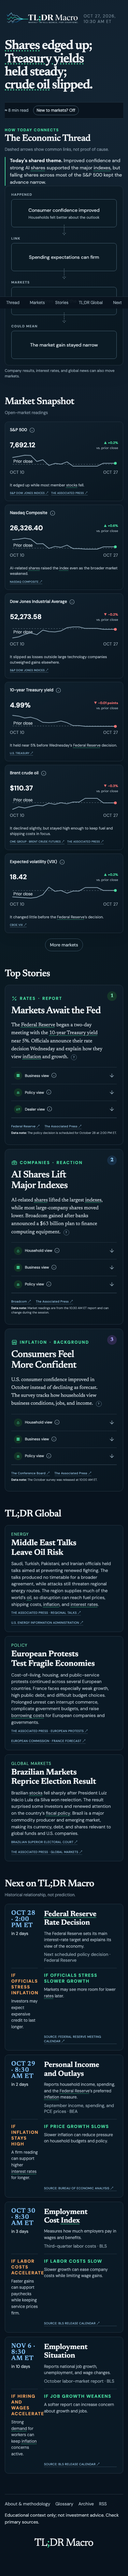
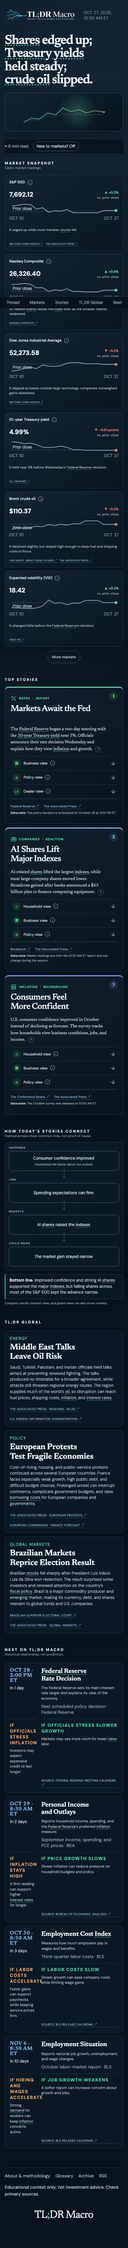
Refine homepage into dense visual briefing

diff --git a/app/globals.css b/app/globals.css
@@ -507,3 +507,96 @@ body {
   .notable-list,.event-list { grid-template-columns:1fr; }
   .event-list article { grid-template-columns:78px minmax(0,1fr); }
 }
+
+/* Approved Oct. 27 dense visual briefing hierarchy. */
+.shell { width:min(1240px,calc(100% - 48px)); }
+.topbar { padding:12px 0 18px; }
+.topbar-main { min-height:38px; }
+.brand-image-header { width:clamp(210px,20vw,280px); }
+.edition { letter-spacing:.04em; }
+.daily-brief { width:100%; max-width:none; display:grid; grid-template-columns:minmax(0,1.35fr) minmax(300px,.65fr); gap:38px; align-items:center; padding:26px 0 4px; }
+.daily-brief-copy { min-width:0; }
+.daily-brief .edition-summary { max-width:760px; font-size:clamp(35px,4.2vw,54px); line-height:1.02; }
+.daily-brief .summary-why { max-width:740px; margin-top:14px; font-size:clamp(14px,1.25vw,17px); line-height:1.52; }
+.brief-visual { min-width:0; height:210px; overflow:hidden; border:1px solid rgb(99 127 145 / .45); border-radius:12px; background:linear-gradient(145deg,rgb(17 37 51 / .94),rgb(7 19 28 / .96)); box-shadow:0 20px 56px rgb(0 0 0 / .22),inset 0 1px rgb(255 255 255 / .025); }
+.brief-visual svg { width:100%; height:100%; }
+.brief-grid-line { fill:none; stroke:#8ab0c2; stroke-width:1; opacity:.09; }
+.brief-signal-line { fill:none; stroke:url(#brief-signal); stroke-width:3; stroke-linecap:round; stroke-linejoin:round; }
+.brief-signal-line-muted { stroke:#7dbbea; stroke-width:1.6; opacity:.25; }
+.brief-signal-line-soft { stroke:#70e5b2; stroke-width:1.7; opacity:.4; }
+.reader-tools { padding:7px 0; }
+.economic-thread,.market-section,.stories,.notable,.watch { padding:25px 0; }
+.section-heading { align-items:end; margin-bottom:13px; }
+.section-heading h2,.economic-thread .section-heading h2 { color:#dce5ea; font-family:var(--font-sans),sans-serif; font-size:11px; font-weight:760; line-height:1.2; text-transform:uppercase; letter-spacing:.24em; }
+.section-heading>p { max-width:440px; margin:0; color:#8296a4; font-size:10px; line-height:1.35; text-align:right; }
+
+.market-grid { gap:9px; }
+.market { min-height:222px; padding:13px 12px; border-radius:9px; background:linear-gradient(150deg,rgb(18 37 50 / .98),rgb(9 23 33 / .96)); box-shadow:0 12px 28px rgb(0 0 0 / .13); }
+.market-title { min-height:27px; }
+.market-title h3 { font-size:11px; }
+.market-value strong { font-size:19px; }
+.sparkline { height:41px; margin:5px 0 0; }
+.market>p,.market-description { margin-top:6px; font-size:10px; line-height:1.42; }
+.market-sources { padding-top:7px; }
+.market-sources a { font-size:7px; }
+.more-markets { min-height:36px; margin-top:12px; font-size:11px; }
+
+.headline-list { gap:10px; }
+.headline-card,.headline-card.no-visual { padding:17px; border-radius:10px; overflow:hidden; box-shadow:0 15px 38px rgb(0 0 0 / .13),inset 0 3px #5fd3a0; }
+.headline-card:nth-child(2) { box-shadow:0 15px 38px rgb(0 0 0 / .13),inset 0 3px #7dbbea; }
+.headline-card:nth-child(3) { box-shadow:0 15px 38px rgb(0 0 0 / .13),inset 0 3px #9991f3; }
+.headline-card:before { top:15px; right:15px; width:25px; height:25px; font-size:13px; }
+.story-tag { margin-bottom:0; font-size:9px; letter-spacing:.1em; }
+.headline-intro { padding-right:32px; }
+.headline-intro h3 { min-height:48px; margin-top:9px; font-size:clamp(20px,1.8vw,25px); line-height:1.08; }
+.headline-commentary-text { margin-top:10px; font-size:13px; line-height:1.48; }
+.headline-visual-column { margin-top:13px; }
+.headline-visual { min-height:176px; padding:13px; border-radius:8px; }
+.headline-visual p { font-size:11px; line-height:1.4; }
+.lenses { margin-top:12px; }
+.lens-row,.lens-toggle { min-height:40px; }
+.lens-row { padding:3px 6px; }
+.story-sources { padding-top:9px; }
+
+.economic-thread { padding-top:18px; }
+.economic-thread .section-heading { margin-bottom:11px; }
+.linear-thread { gap:2px; padding:14px; border-radius:10px; }
+.thread-node { min-height:70px; padding:10px; border-radius:8px; font-size:12px; }
+.thread-step small { margin-bottom:5px; font-size:8px; }
+.thread-node-subline { font-size:9px; }
+.thread-arrow { width:30px; }
+.thread-takeaway { max-width:none; margin:10px 0 0; padding:9px 12px; border:1px solid rgb(91 125 142 / .36); border-left:2px solid var(--green); border-radius:0 7px 7px 0; background:rgb(10 28 38 / .7); font-size:12px; line-height:1.45; }
+.thread-other-factors { margin-top:6px; font-size:9px; }
+
+.notable-list { gap:10px; }
+.notable-list article,.notable-list article:nth-child(even),.notable-list article:nth-child(odd) { padding:14px; border-radius:9px; box-shadow:0 10px 26px rgb(0 0 0 / .09); }
+.notable h3 { font-size:18px; }
+.notable p { font-size:12px; line-height:1.48; }
+.global-sources { margin-top:9px; }
+.event-list { gap:10px; }
+.event-list article { grid-template-columns:78px minmax(0,1fr); gap:11px 14px; padding:14px; border-radius:9px; }
+.event-list time { font-size:15px; }
+.event-main h3 { font-size:19px; line-height:1.12; }
+.event-main p,.scenario p { font-size:11px; line-height:1.42; }
+.scenario { padding-top:9px; }
+.footer-meta { padding-top:14px; }
+
+@media (max-width:1000px) {
+  .daily-brief { grid-template-columns:minmax(0,1.2fr) minmax(240px,.8fr); gap:24px; }
+  .brief-visual { height:180px; }
+}
+@media (max-width:760px) {
+  .shell { width:calc(100% - 28px); }
+  .topbar { padding-top:10px; }
+  .daily-brief { display:block; padding-top:20px; }
+  .daily-brief .edition-summary { font-size:clamp(31px,10vw,43px); }
+  .brief-visual { height:112px; margin-top:18px; }
+  .brief-visual svg { transform:scale(1.08); }
+  .economic-thread,.market-section,.stories,.notable,.watch { padding:21px 0; }
+  .section-heading { align-items:start; }
+  .section-heading>p { text-align:left; }
+  .headline-card,.headline-card.no-visual,.headline-card:has(.headline-visual-column) { padding:16px; }
+  .headline-intro h3 { font-size:25px; }
+  .linear-thread { padding:11px; }
+  .thread-node { min-height:58px; }
+}

diff --git a/app/page.tsx b/app/page.tsx
@@ -14,9 +14,9 @@ import ReaderTools from "./ReaderTools";
 import renderedThread from "../content/economic-thread.rendered.json";
 
 export default function Home(){const summary=generateSummary(edition),positions=threadConfig.stories as Record<string,"Report"|"Reaction"|"Background">,orderedHeadlines=[...headlines].sort((a,b)=>threadConfig.story_order.indexOf(positions[a.topic_tag])-threadConfig.story_order.indexOf(positions[b.topic_tag])),shownGlobalTags=new Set<string>();return <main className="shell"><Header updated={edition.updated_at} summary={summary.sentence} insight={renderedThread.takeaway}/><ReaderTools/>
-  <EconomicThread/>
   <MarketSnapshot markets={edition.markets}/>
   <section className="stories" aria-labelledby="stories-title"><div className="section-heading stories-heading"><h2 id="stories-title">Top Stories</h2></div><div className="headline-list">{orderedHeadlines.map(headline=>{const targetId=headline.topic_tag==="inflation_reports"?"story-inflation":headline.topic_tag==="interest_rates_and_yields"?"story-rates":headline.topic_tag==="companies"?"story-background":undefined;return <HeadlineCard headline={headline} definitions={lensDefinitions} id={targetId} position={positions[headline.topic_tag]||"Background"} key={headline.headline}/>})}</div></section>
+  <EconomicThread/>
   <section className="notable global-section" id="global" aria-labelledby="global-title"><div className="section-heading"><h2 id="global-title">TL;DR Global</h2></div><div className="notable-list">{[...globalItems].filter(item=>item.tag!=="Company"&&(!("qualifies" in item)||item.qualifies!==false)).sort((a,b)=>b.importance_score-a.importance_score).map(item=>{const context="context" in item&&item.context&&!/^Developing as of/i.test(item.context)?item.context:"",significance=item.why_it_matters.replace(/^Why it matters:\s*/,""),body=`${item.what} ${context} ${significance}`.replace(/\s+/g," ").trim(),showTag=!shownGlobalTags.has(item.tag);shownGlobalTags.add(item.tag);return <article key={item.headline}><div className="notable-title"><div>{showTag?<small>{item.tag}</small>:null}<h3>{item.headline}</h3></div></div><p><AnnotatedText text={body}/></p><div className="global-sources">{item.sources.map(source=><a href={source.href} target="_blank" rel="noreferrer" key={source.href}>{source.name} ↗</a>)}</div></article>})}</div></section>
   <section className="watch" id="next" aria-labelledby="watch-title"><div className="section-heading"><h2 id="watch-title">Next on TL;DR Macro</h2><p>Historical relationship, not prediction.</p></div><EventCalendar events={edition.calendar} published={edition.updated_at}/></section>
   <Footer/>

diff --git a/app/EconomicThread.tsx b/app/EconomicThread.tsx
@@ -3,4 +3,4 @@ import thread from "../content/economic-thread.rendered.json";
 import AnnotatedText from "./AnnotatedText";
 type Node={id:string;layer:string;label:string;subline?:string;story_anchor?:string;popover?:{title:string;plain:string;precise:string;source_url:string}};
 function NodeCard({node}:{node:Node}){const copy=<><span className="thread-node-copy"><AnnotatedText text={node.label}/></span>{node.subline?<span className="thread-node-subline"><AnnotatedText text={node.subline}/></span>:null}</>;return <div className="thread-step"><small>{node.layer}</small><div className="thread-node">{node.story_anchor?<a className="thread-node-link" href={`#${node.story_anchor}`}>{copy}</a>:copy}</div></div>}
-export default function EconomicThread(){const nodes=thread.nodes as Node[];if(nodes.length<3)return null;return <section className="economic-thread" aria-labelledby="thread-title"><div className="section-heading"><div><p className="thread-kicker">How today connects</p><h2 id="thread-title">The Economic Thread</h2></div><p>Dashed arrows show common links, not proof of cause.</p></div><p className="thread-takeaway"><strong>Today&apos;s shared theme.</strong> <AnnotatedText text={thread.takeaway}/></p><div className="linear-thread" role="list" aria-label="Economic chain">{nodes.map((node,index)=><div className="linear-thread-item" role="listitem" key={node.id}><NodeCard node={node}/>{index<nodes.length-1?<svg className="thread-arrow" viewBox="0 0 44 18" aria-hidden="true"><path d="M1 9h37m-6-6 7 6-7 6"/></svg>:null}</div>)}</div><p className="thread-other-factors">{thread.other_factors_note}</p></section>}
+export default function EconomicThread(){const nodes=thread.nodes as Node[];if(nodes.length<3)return null;return <section className="economic-thread" aria-labelledby="thread-title"><div className="section-heading"><h2 id="thread-title">How Today&apos;s Stories Connect</h2><p>Dashed arrows show common links, not proof of cause.</p></div><div className="linear-thread" role="list" aria-label="Economic chain">{nodes.map((node,index)=><div className="linear-thread-item" role="listitem" key={node.id}><NodeCard node={node}/>{index<nodes.length-1?<svg className="thread-arrow" viewBox="0 0 44 18" aria-hidden="true"><path d="M1 9h37m-6-6 7 6-7 6"/></svg>:null}</div>)}</div><p className="thread-takeaway"><strong>Bottom line.</strong> <AnnotatedText text={thread.takeaway}/></p><p className="thread-other-factors">{thread.other_factors_note}</p></section>}

diff --git a/app/SiteChrome.tsx b/app/SiteChrome.tsx
@@ -17,7 +17,7 @@ export function Header({ updated, summary, insight }: { updated?: string; summar
   const format=(includeYear:boolean)=>updated?`${new Intl.DateTimeFormat("en-US",{month:"short",day:"numeric",...(includeYear?{year:"numeric"}:{}),hour:"numeric",minute:"2-digit",timeZone:"America/New_York"}).format(new Date(updated))} ET`:"About this briefing";
   const label=format(true);
   const compactLabel=format(false);
-  return <><header className="topbar" id="top"><div className="topbar-main"><BrandImage placement="header" /><div className="edition"><time dateTime={updated}>{label}</time></div></div><div className="daily-brief"><p className="brief-kicker">Latest verified market brief</p><EditionSummary text={summary}/><p className="summary-why">{insight}</p></div></header><StickyHeader updated={updated} label={compactLabel} summary={summary}/></>;
+  return <><header className="topbar" id="top"><div className="topbar-main"><BrandImage placement="header" /><div className="edition"><time dateTime={updated}>{label}</time></div></div><div className="daily-brief"><div className="daily-brief-copy"><p className="brief-kicker">Latest verified market brief</p><EditionSummary text={summary}/><p className="summary-why">{insight}</p></div><div className="brief-visual" aria-hidden="true"><svg viewBox="0 0 560 260" role="presentation"><defs><linearGradient id="brief-signal" x1="0" y1="0" x2="1" y2="0"><stop offset="0" stopColor="#7dbbea"/><stop offset=".52" stopColor="#70e5b2"/><stop offset="1" stopColor="#e9a96f"/></linearGradient><radialGradient id="brief-glow" cx="50%" cy="50%" r="50%"><stop offset="0" stopColor="#70e5b2" stopOpacity=".22"/><stop offset="1" stopColor="#70e5b2" stopOpacity="0"/></radialGradient></defs><circle cx="370" cy="126" r="126" fill="url(#brief-glow)"/><path className="brief-grid-line" d="M20 48h520M20 104h520M20 160h520M20 216h520M74 24v214M182 24v214M290 24v214M398 24v214M506 24v214"/><path className="brief-signal-line brief-signal-line-muted" d="M22 184 74 160l46 10 56-48 50 20 48-72 50 42 52-16 48 34 54-18 58 18"/><path className="brief-signal-line" d="M22 192 74 170l46 5 56-39 50 13 48-45 50 23 52-12 48 20 54-13 58 8"/><path className="brief-signal-line brief-signal-line-soft" d="M22 200 74 181l46 1 56-27 50 6 48-22 50 8 52-7 48 10 54-5 58 1"/><circle cx="536" cy="130" r="5" fill="#70e5b2"/></svg></div></div></header><StickyHeader updated={updated} label={compactLabel} summary={summary}/></>;
 }
 
 export function Footer() {

diff --git a/DESIGN_REQUESTS.md b/DESIGN_REQUESTS.md
@@ -1,5 +1,9 @@
 # Design requests
 
+## 2026-10-27 — Dense visual briefing hierarchy
+
+Approved by the user in chat with a supplied visual reference. Rework the homepage into a more concise, eye-catching briefing: a compact editorial hero with a non-redundant visual accent; a denser primary-market strip; clearly numbered Top Stories; a compact story-connection diagram directly after Top Stories; and tighter TL;DR Global and Next on TL;DR Macro modules. Preserve verified copy, source links, glossary interactions, accessibility, mobile behavior, and the required relative order of Market Snapshot, Top Stories, TL;DR Global, and Next on TL;DRM. The reference is a structural and visual direction, not branding or copy to reproduce.
+
 ## 2026-10-27 — Section-level status labels
 
 Approved by the user in chat. Remove repeated status headers and freshness badges from individual cards when the same idea applies across a section. Show one concise status line in the section heading, retain distinct observation dates inside charts and accessible labels, rename the stale-market disclosure without repeating “updated today,” and show repeated TL;DR Global category labels only on their first occurrence. Preserve source links, evidence dates, and accessibility.

diff --git a/DATA_REPORT.md b/DATA_REPORT.md
@@ -1,6 +1,6 @@
 # Data Report
 
-Generated: 2026-10-27T15:27:08.681Z
+Generated: 2026-10-27T20:23:48.625Z
 
 | Instrument | Provider | Series | Frequency | Latest timestamp | Baseline | Chart points | Status |
 |---|---|---|---|---|---|---:|---|

diff --git a/VERIFY_REPORT.md b/VERIFY_REPORT.md
@@ -1,6 +1,6 @@
 # Verification report
 
-Generated: 2026-10-27T15:27:05.657Z
+Generated: 2026-10-27T20:23:45.764Z
 Edition: 2026-10-27
 Status: PASSED
 
